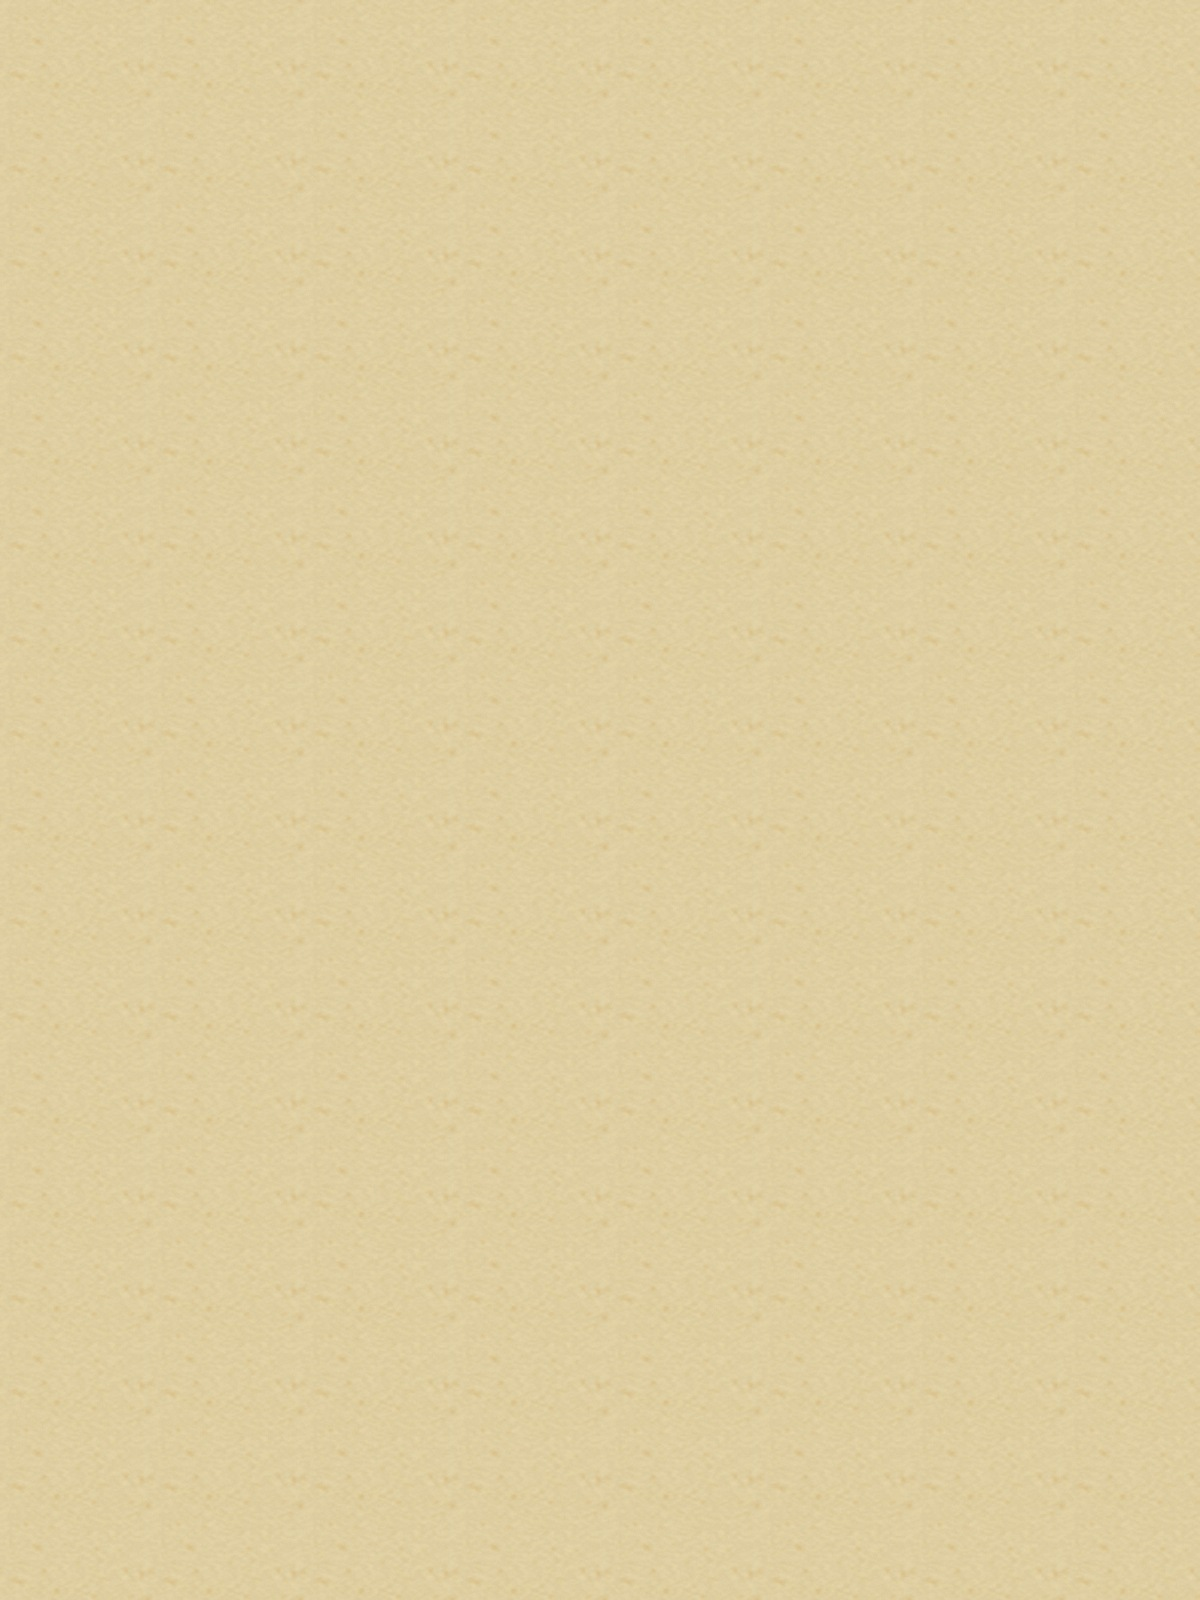
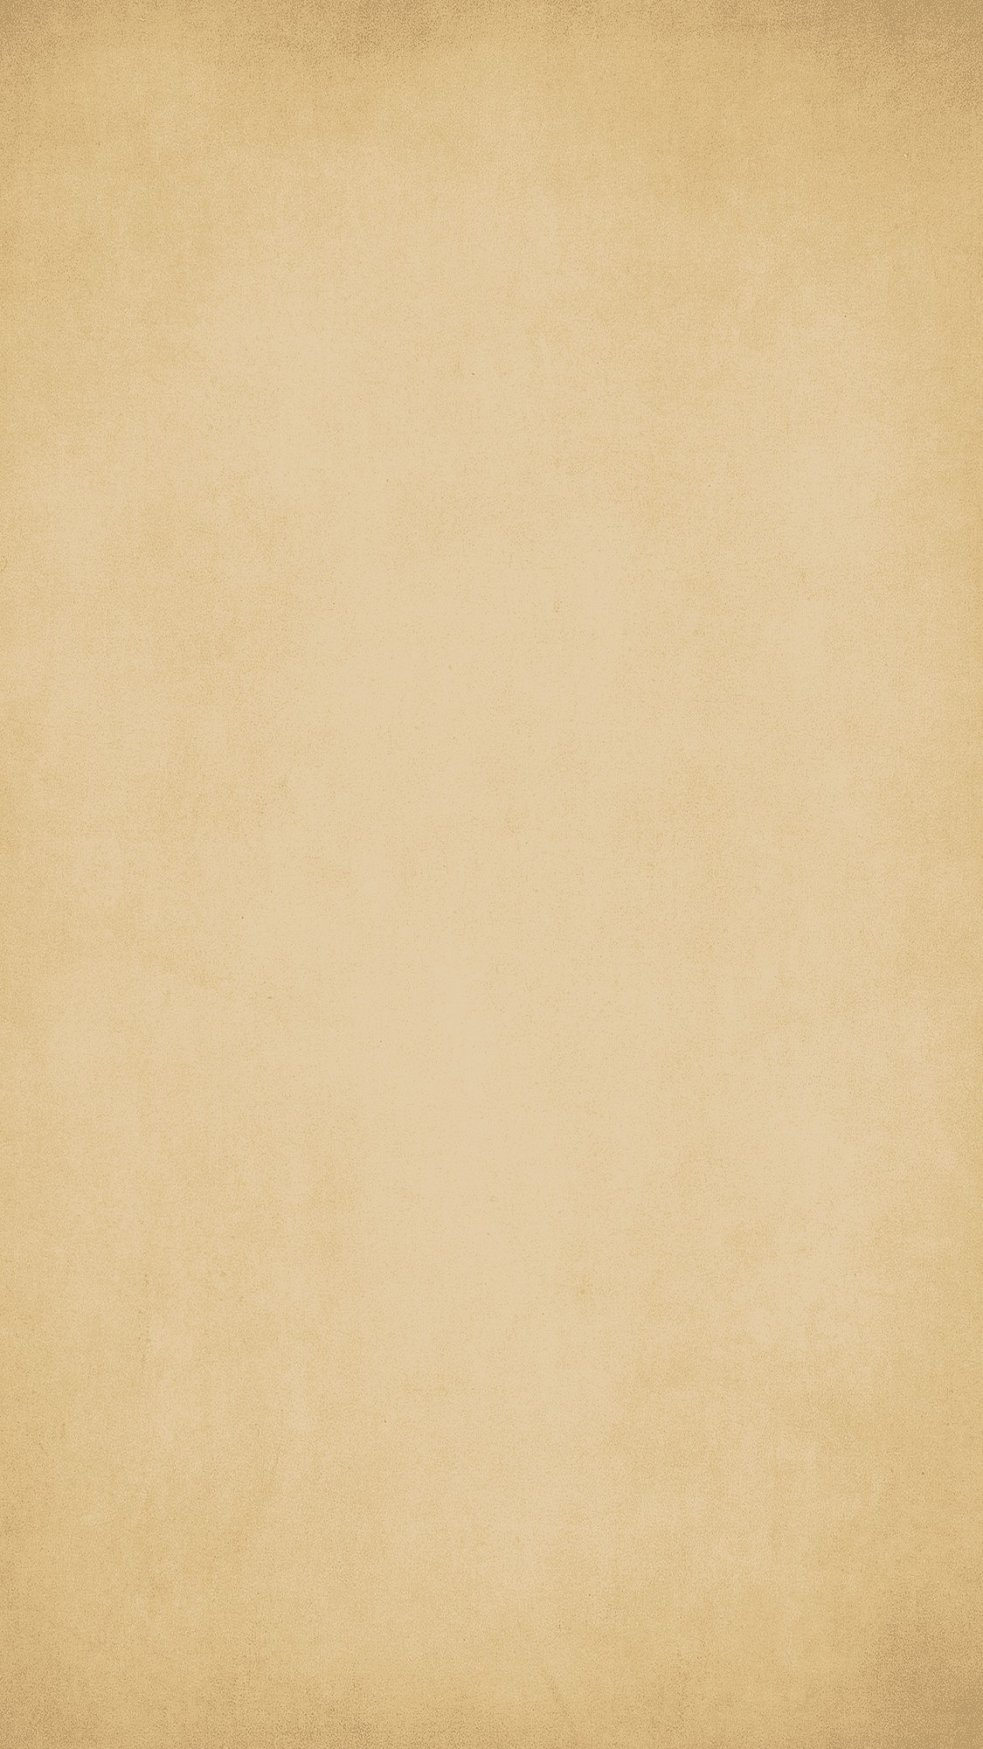
style: 羊皮纸替换为 reader 项目高清原图 (v1.3.3)

Changed region(s): [[0.0, 0.6562, 1.0, 1.0], [0.0, 0.0, 1.0, 0.375], [0.9766, 0.4375, 1.0, 0.4688]]

diff --git a/apps/web/src/views/Settings.vue b/apps/web/src/views/Settings.vue
@@ -21,6 +21,11 @@ const SECTIONS = [
 
 const CHANGELOG = [
   {
+    version: '1.3.3',
+    date: '2026-11-20',
+    items: ['羊皮纸背景替换为 hectorqin/reader 项目内置高清羊皮纸原图'],
+  },
+  {
     version: '1.3.2',
     date: '2026-11-20',
     items: ['段评直接以完整大窗打开，加载完成前隐藏 iframe，消除白屏和黑屏闪烁'],
